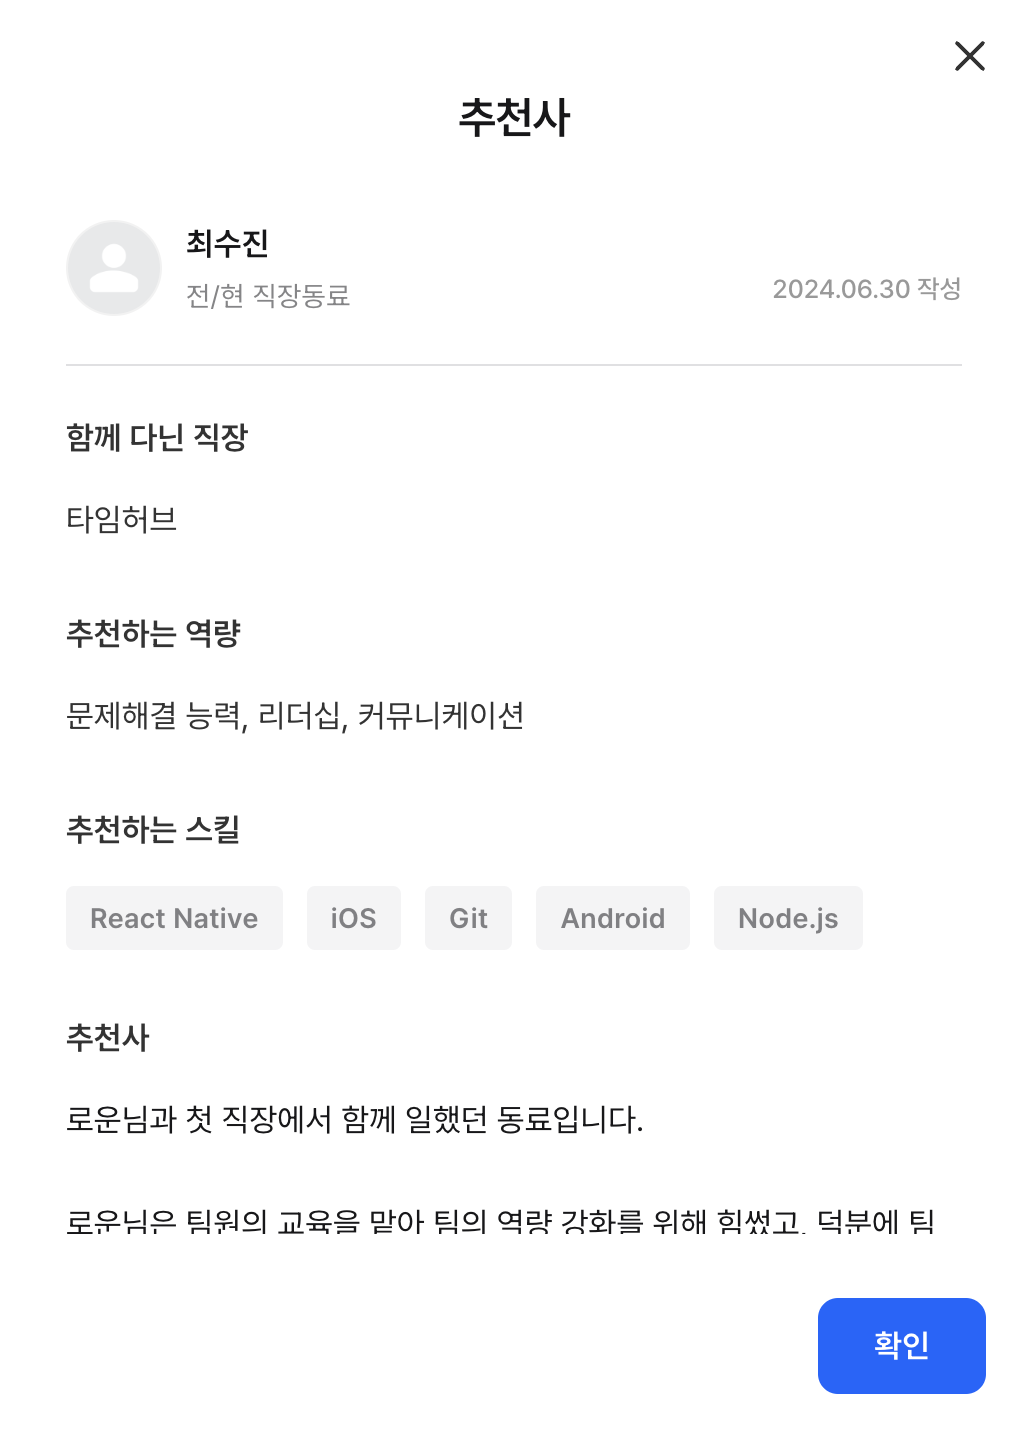
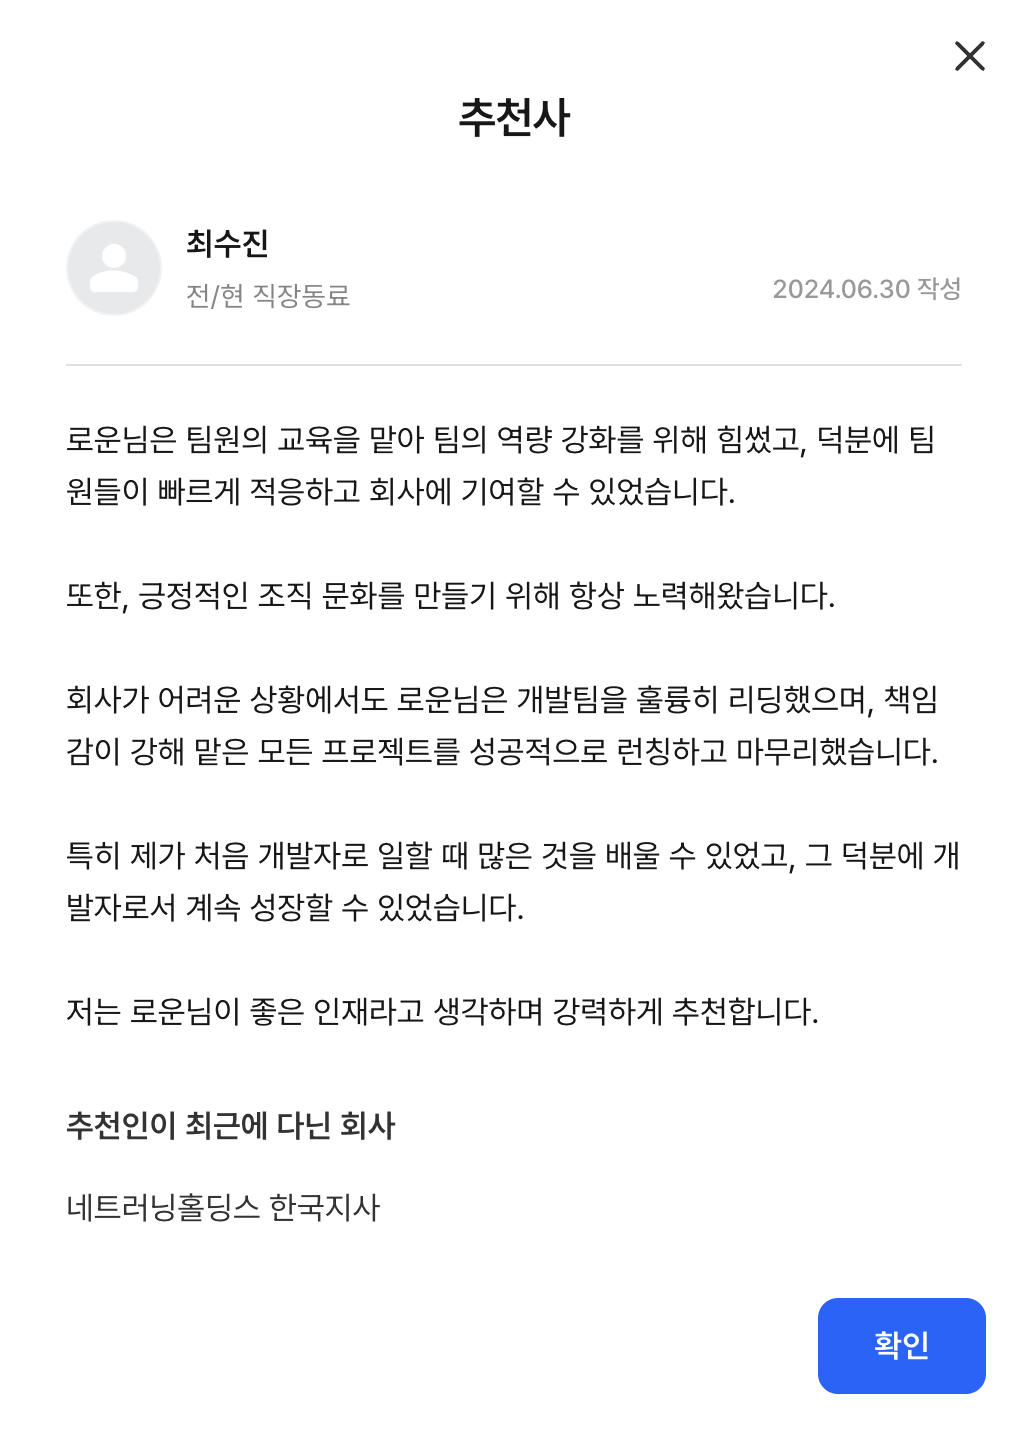
docs: 타임허브 수진 개발자 추천서 문서 및 이미지 파일 추가

diff --git a/docs/timehub-sujin-developer.md b/docs/timehub-sujin-developer.md
@@ -1,0 +1,31 @@
+# 추천서
+
+- 추천인: 최수진
+- 소속: 타임허브
+- 직책: 개발자
+
+---
+
+## 💬 추천 내용
+
+로운님과 첫 직장에서 함께 일했던 동료입니다.
+
+로운님은 팀원의 교육을 맡아 팀의 역량 강화를 위해 힘썼고, 덕분에 팀원들이 빠르게 적응하고 회사에 기여할 수 있었습니다.
+
+또한, 긍정적인 조직 문화를 만들기 위해 항상 노력해왔습니다.
+
+회사가 어려운 상황에서도 로운님은 개발팀을 훌륭히 리딩했으며, 책임감이 강해 맡은 모든 프로젝트를 성공적으로 런칭하고 마무리했습니다.
+
+특히 제가 처음 개발자로 일할 때 많은 것을 배울 수 있었고, 그 덕분에 개발자로서 계속 성장할 수 있었습니다.
+
+저는 로운님이 좋은 인재라고 생각하며 강력하게 추천합니다.
+
+![](/assets/linkedin/linkedin-timehub-sujin-developer.png)
+![](/assets/wanted/wanted-timehub-sujin-developer-01.png)
+![](/assets/wanted/wanted-timehub-sujin-developer-02.png)
+
+---
+
+## 🔗 관련 링크
+
+- 추천인 LinkedIn: https://www.linkedin.com/in/sooooooo/
